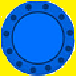
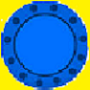
connect four add play again option

diff --git a/src/englard/connectFour/WinnerFrame.java b/src/englard/connectFour/WinnerFrame.java
@@ -4,43 +4,76 @@ import java.applet.Applet;
 import java.awt.Color;
 import java.awt.Container;
 import java.awt.Font;
+import java.awt.event.ActionEvent;
+import java.awt.event.ActionListener;
 
+import javax.swing.JButton;
 import javax.swing.JFrame;
 import javax.swing.JLabel;
+import javax.swing.JOptionPane;
+import javax.swing.JPanel;
 
 public class WinnerFrame extends JFrame {
-	
-	public WinnerFrame(String winner){
-		     setTitle("Winner!");
-	        setDefaultCloseOperation(JFrame.EXIT_ON_CLOSE);
-	        setSize(400,300);
-	        setLocation(600, 200);
-	        Container container = getContentPane();
-	        playSound("clap.wav");
-	        if(winner.equalsIgnoreCase("blue")){
-	        	  container.setBackground(Color.BLUE);
-	        }else{
-	        	  container.setBackground(Color.RED);
 
-	        }
-	      
-	        JLabel text  =  new JLabel(winner +" Won! \n Great Job!!!");
-	        text.setFont(new Font("Courier New", Font.BOLD, 22));
-	        text.setHorizontalAlignment(JLabel.CENTER);
-	        text.setVerticalAlignment(JLabel.CENTER);
-	        
-	        add(text);
-	        setVisible(true);
-	    }
+	/**
+	 * 
+	 */
+	private static final long serialVersionUID = 1L;
+
+	public WinnerFrame(String winner) {
+		setTitle("Winner!");
+		setDefaultCloseOperation(JFrame.EXIT_ON_CLOSE);
+		setSize(400, 300);
+		setLocation(600, 200);
+
+		playSound("clap.wav");
+
+		JLabel text = new JLabel(winner + " Won! \n Great Job!!!");
+		JLabel playAgain = new JLabel("Do you want to play again?");
+		JButton yes = new JButton("yes");
+		JButton no = new JButton("no");
+		JPanel panel = new JPanel();
+		yes.addActionListener(new ActionListener() {
+
+			public void actionPerformed(ActionEvent e) {
+				BoardFrame a = new BoardFrame();
+				a.setVisible(true);
+
+			}
+		});
+		no.addActionListener(new ActionListener() {
+
+			public void actionPerformed(ActionEvent e) {
+				dispose();
+
+			}
+		});
+
+		text.setFont(new Font("Courier New", Font.BOLD, 22));
+		text.setHorizontalAlignment(JLabel.CENTER);
+		text.setVerticalAlignment(JLabel.CENTER);
+
+		if (winner.equalsIgnoreCase("blue")) {
+			panel.setBackground(Color.BLUE);
+		} else {
+			panel.setBackground(Color.RED);
+
+		}
+
+		panel.add(text);
+		panel.add(playAgain);
+		panel.add(yes);
+		panel.add(no);
+		add(panel);
+		setVisible(true);
+	}
+
 	public void playSound(final String file) {
-	    new Thread(new Runnable() {
+		new Thread(new Runnable() {
 
-	        
-	        public void run() {
+			public void run() {
 				Applet.newAudioClip(getClass().getResource(file)).play();
-	        }
-	    }).start();
+			}
+		}).start();
 	}
-	}
-
-
+}

diff --git a/src/englard/connectFour/BoardFrame.java b/src/englard/connectFour/BoardFrame.java
@@ -8,7 +8,6 @@ import javax.swing.JOptionPane;
 import javax.swing.JPanel;
 import javax.swing.border.LineBorder;
 
-import englard.gui.SmileFrame;
 import englard.math.InvalidDataException;
 
 import java.awt.Color;
@@ -17,6 +16,10 @@ import java.awt.event.ActionEvent;
 import java.awt.event.ActionListener;
 
 public class BoardFrame extends JFrame {
+	/**
+	 * 
+	 */
+	private static final long serialVersionUID = 1L;
 	private JPanel p;
 	private JButton[] button;
 	private JLabel[] grid;
@@ -30,16 +33,18 @@ public class BoardFrame extends JFrame {
 
 		p = new JPanel();
 		p.setLayout(new GridLayout(7, 7));
+		p.setOpaque(true);
+		p.setBackground(Color.YELLOW);
+		p.setBorder(new LineBorder(Color.BLACK, 3));
 
 		try {
 			game = new ConnectFour();
 		} catch (InvalidDataException e1) {
-			JOptionPane.showMessageDialog(null, "contanct It");
+			JOptionPane.showMessageDialog(null, "contanct I.T.");
 		}
 
 		this.button = new JButton[7];
 		for (int i = 0; i < 7; i++) {
-			// button[i].addActionListener(arg0);
 			p.add(button[i] = new JButton(new ImageIcon(this.getClass()
 					.getResource("./downArrow.png"))));
 		}
@@ -47,10 +52,8 @@ public class BoardFrame extends JFrame {
 		this.grid = new JLabel[42];
 		for (int i = 0; i < 42; i++) {
 			grid[i] = new JLabel();
-			grid[i].setOpaque(true);
-			grid[i].setBorder(new LineBorder(Color.BLACK));
-			grid[i].setBackground(Color.YELLOW);
-			//grid[i].add(new WhiteCircle());
+			grid[i].setIcon(new ImageIcon(this.getClass().getResource(
+					"./WhitePiece.png")));
 			p.add(grid[i]);
 		}
 
@@ -80,6 +83,7 @@ public class BoardFrame extends JFrame {
 							}
 							new WinnerFrame(won);
 							stopGame();
+							
 						} else if (game.isFull()) {
 							full();
 						}
@@ -114,8 +118,5 @@ public class BoardFrame extends JFrame {
 
 	}
 
-	public static void main(String args[]) {
-		BoardFrame frame = new BoardFrame();
-		frame.setVisible(true);
-	}
+	
 }

diff --git a/src/englard/connectFour/PlayConnectFour.java b/src/englard/connectFour/PlayConnectFour.java
@@ -1,0 +1,8 @@
+package englard.connectFour;
+
+public class PlayConnectFour {
+	public static void main(String args[]) {
+		BoardFrame frame = new BoardFrame();
+		frame.setVisible(true);
+	}
+}

diff --git a/src/englard/connectFour/Board.java b/src/englard/connectFour/Board.java
@@ -1,8 +1,5 @@
 package englard.connectFour;
 
-import java.util.ArrayList;
-import java.util.Stack;
-
 import englard.math.InvalidDataException;
 
 public class Board {
